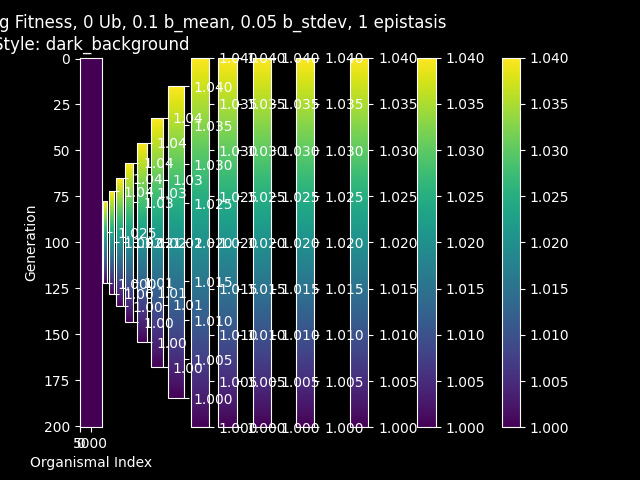
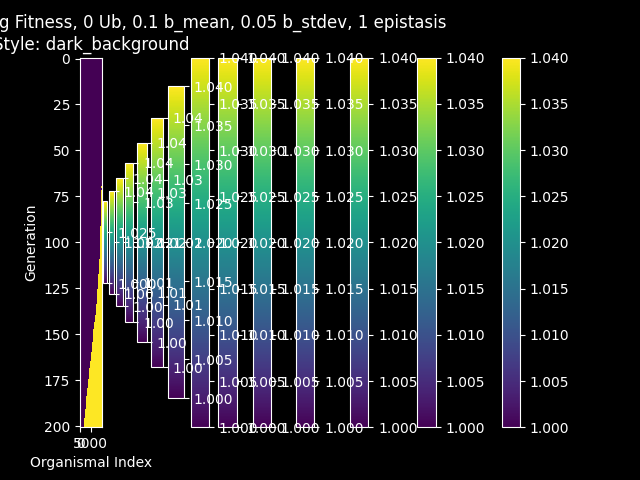
changed fitness function to get workable fitness increasing results

Changed region(s): [[0.125, 0.5938, 0.1562, 0.9062]]

diff --git a/transfer-too.py b/transfer-too.py
@@ -2,7 +2,7 @@ import numpy as np
 from matplotlib import pyplot as plt
 
 def average_fitness(genome):
-    return np.average(np.sum(genome, axis=1) / genome.shape[1]) #TODO ask about what an appropriate function here is, because right now there's no consistent fitness improvement
+    return np.average(np.sum(genome, axis=1)) #TODO ask about what an appropriate function here is, because right now there's no consistent fitness improvement
 
 def horizontal_gene_transfer(genome):
     #TODO Implementation (ask for bio details)
